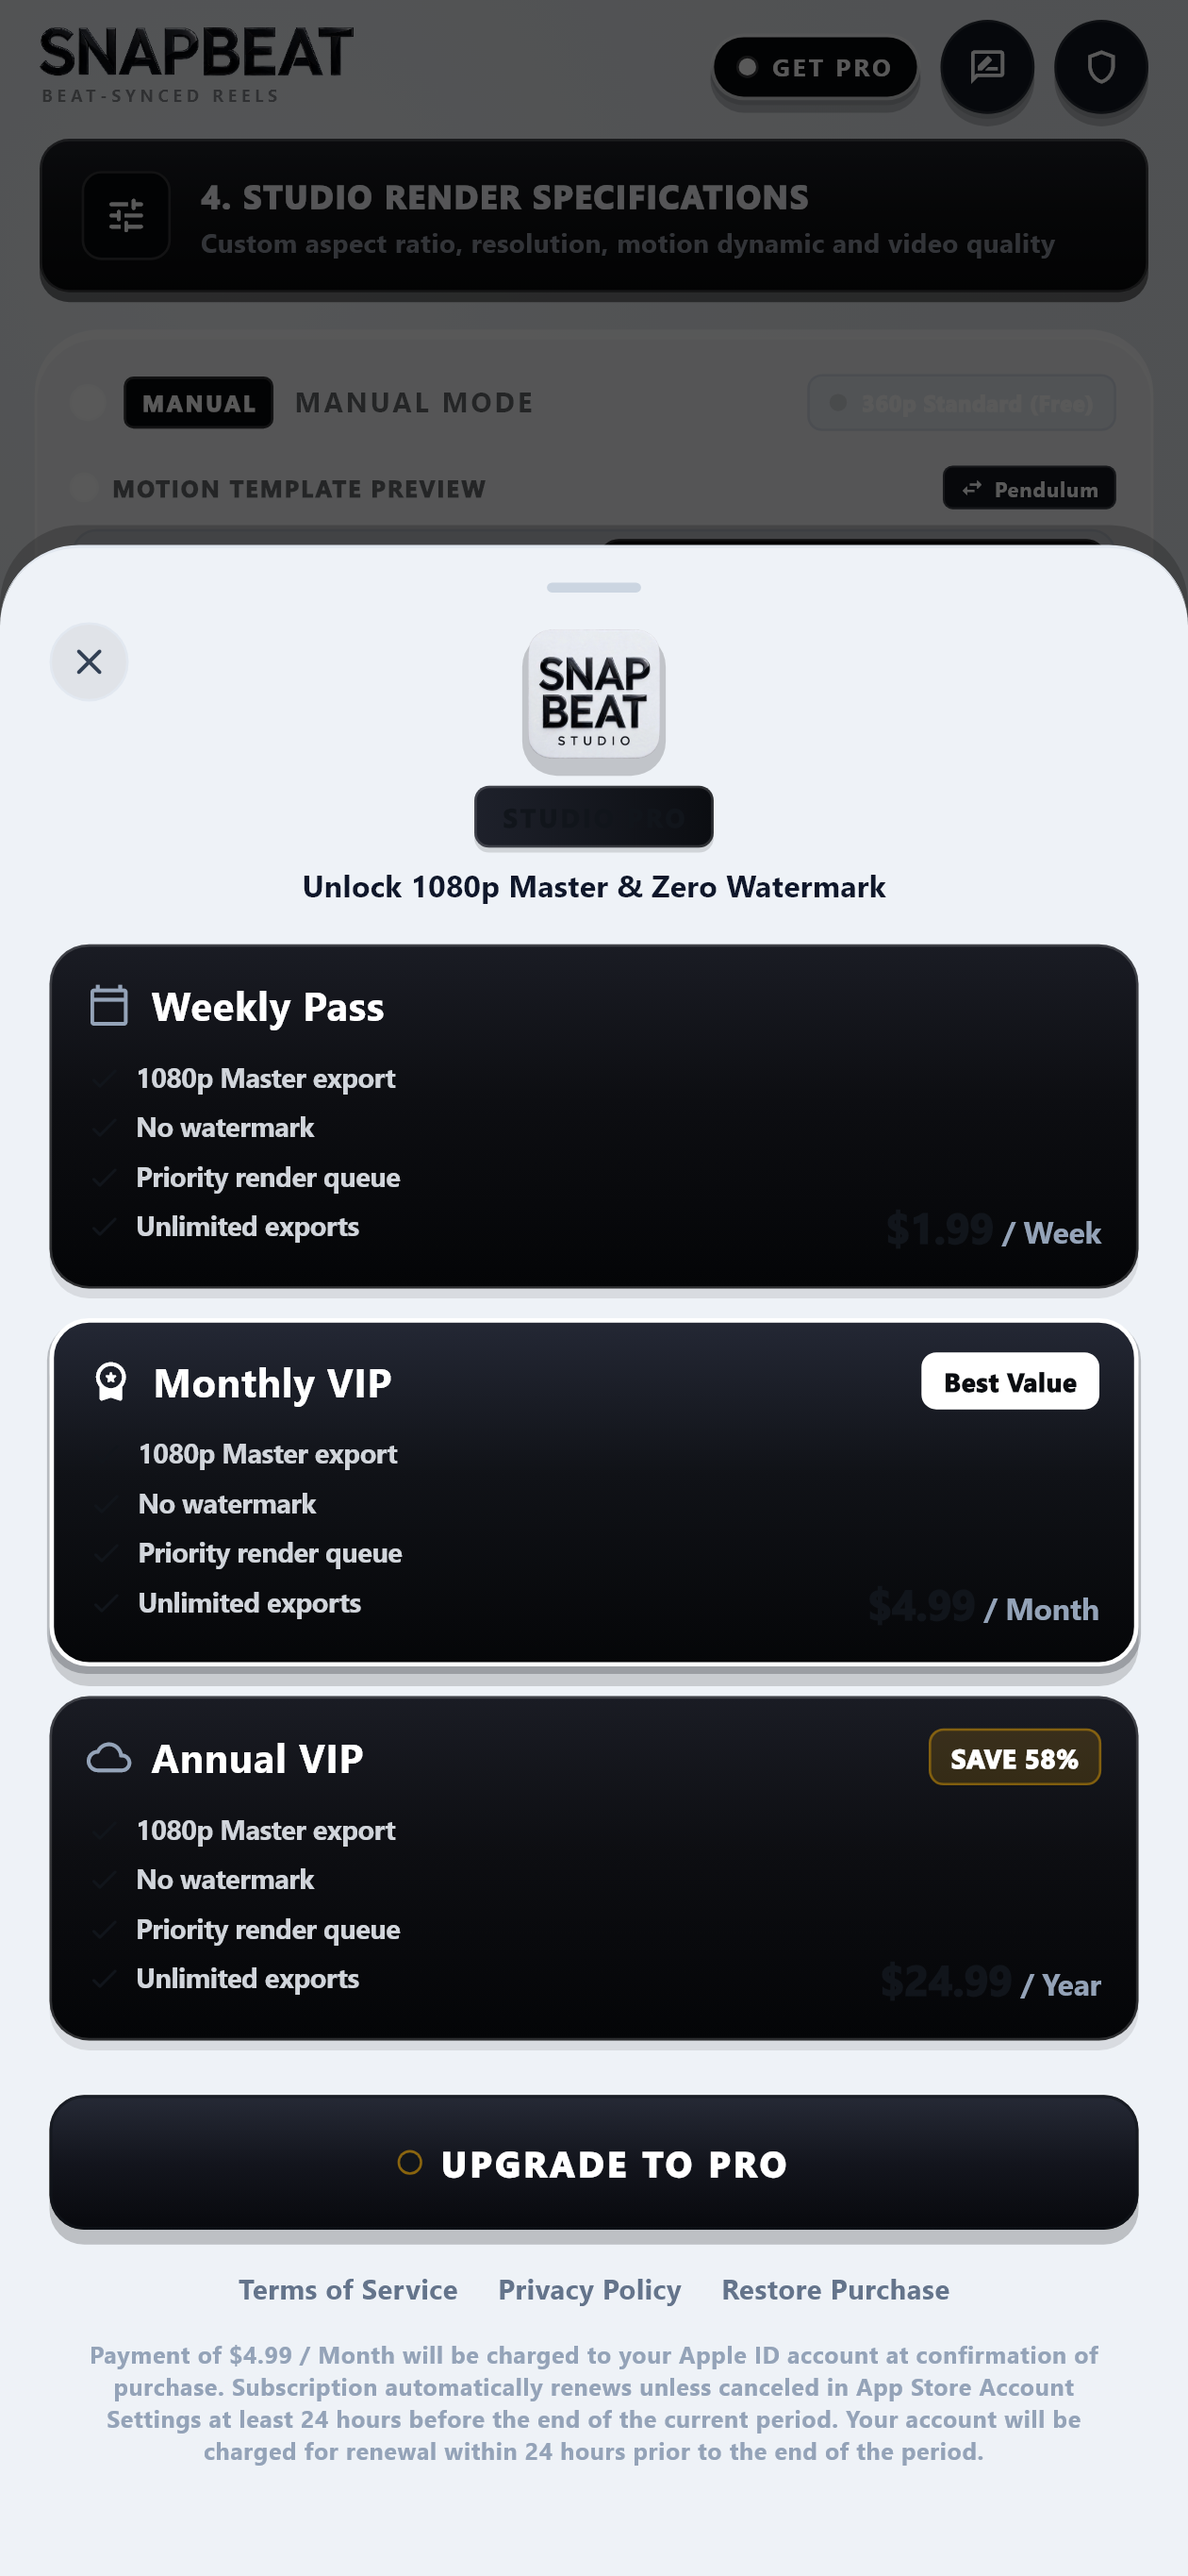
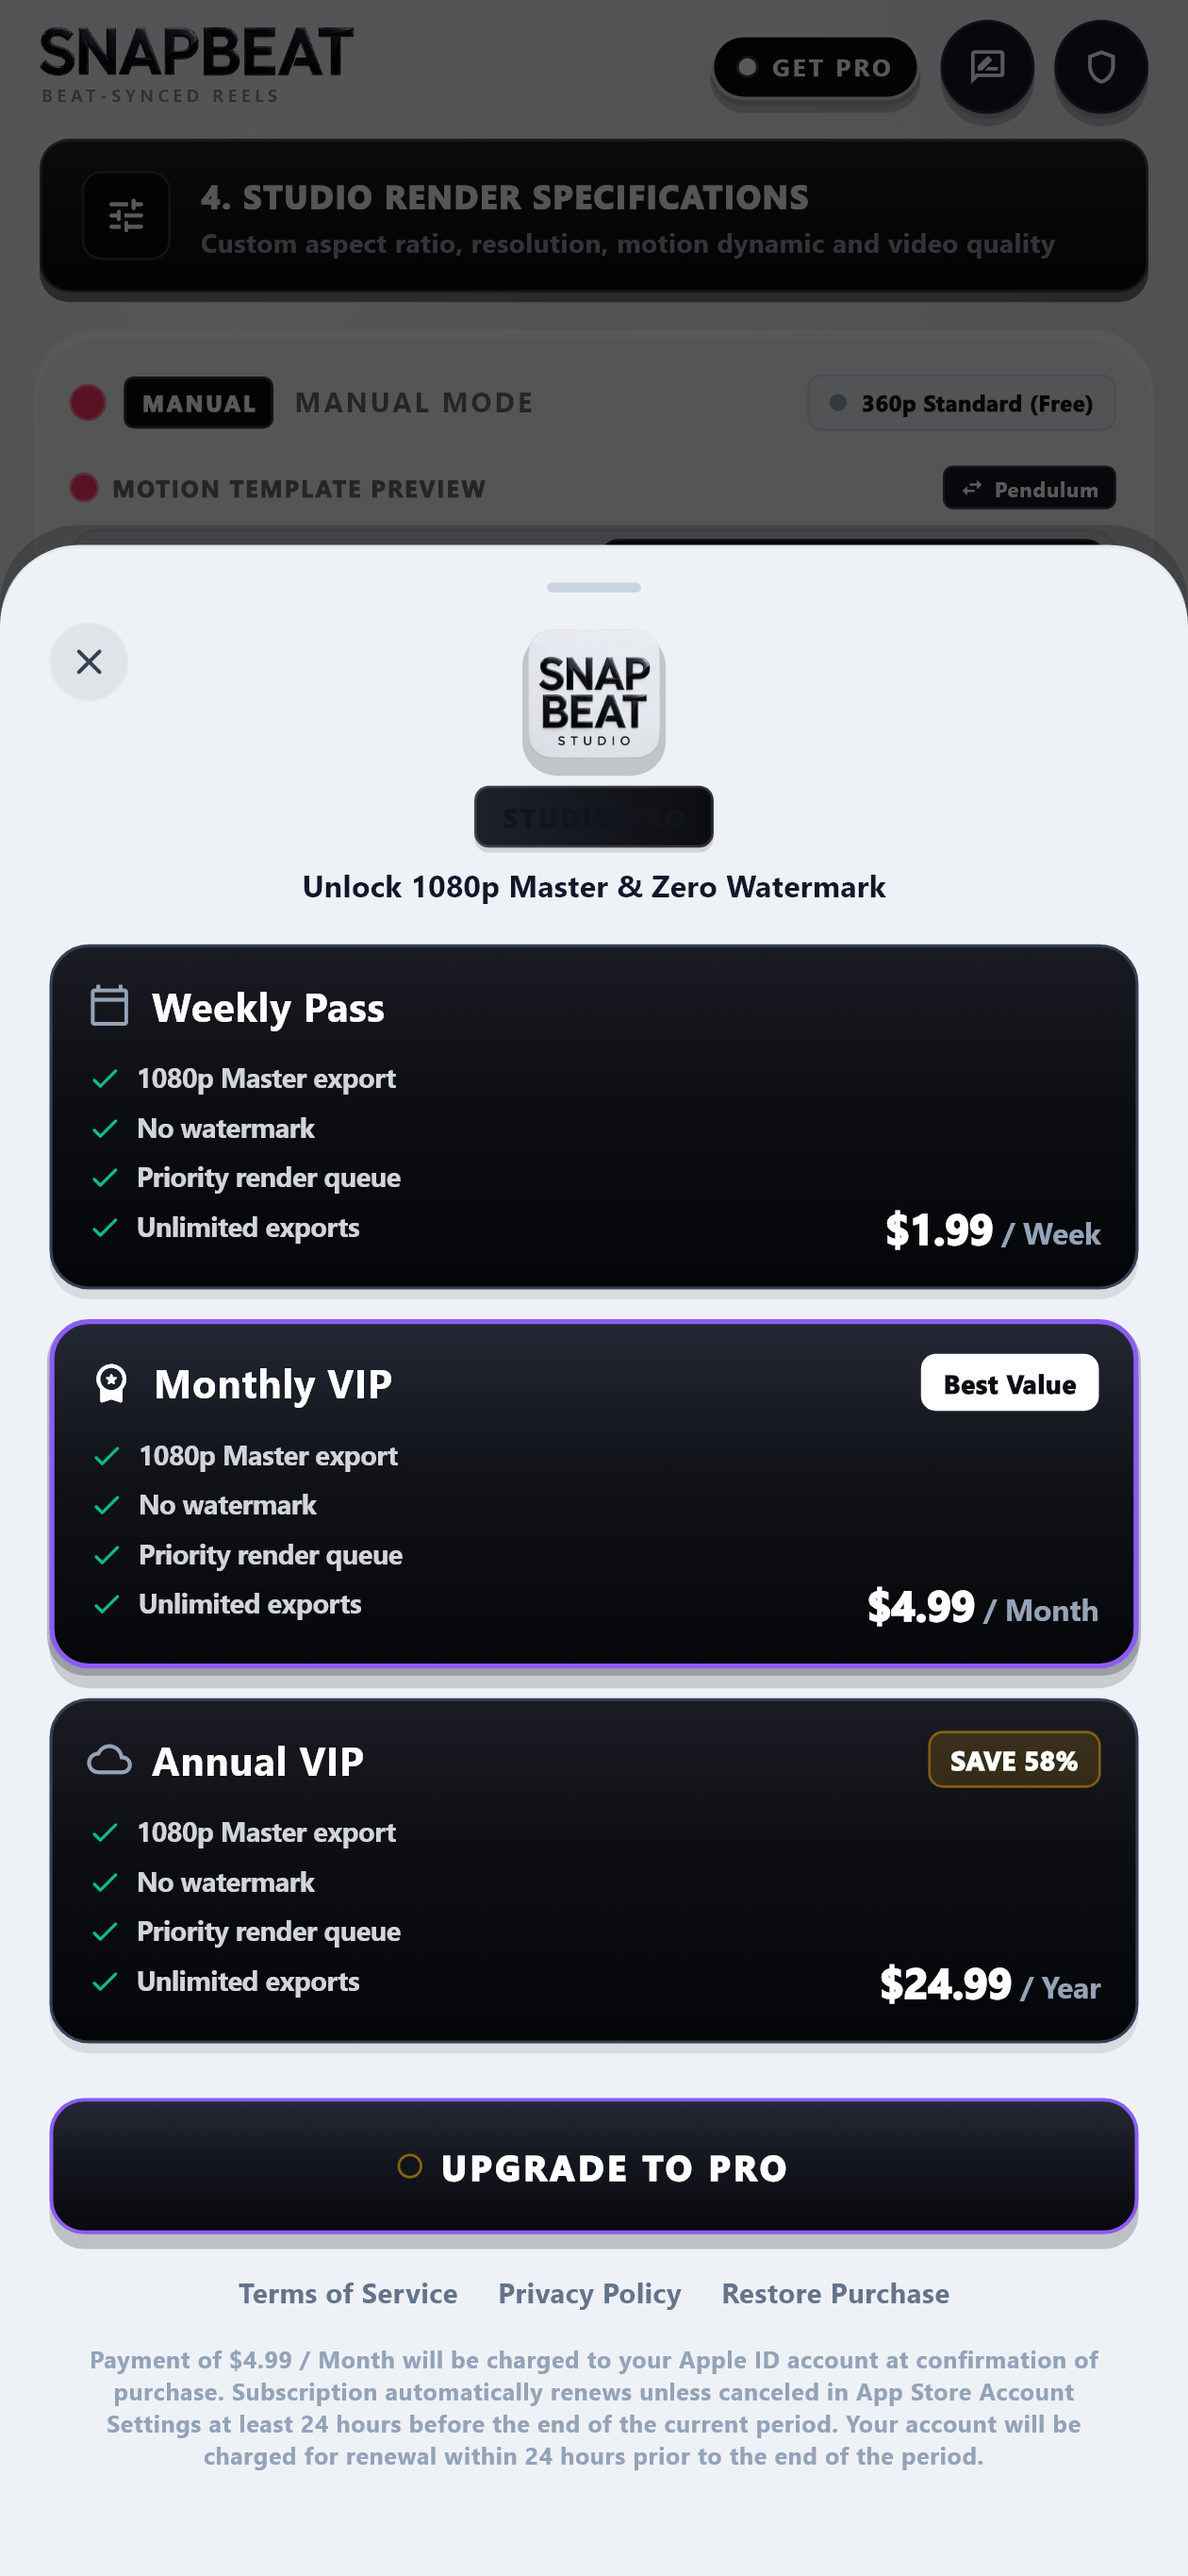
chore(release): bump iOS build to 1.0.7+41 for TestFlight

diff --git a/lib/ui/components/retro_subscription_dialog.dart b/lib/ui/components/retro_subscription_dialog.dart
@@ -325,7 +325,7 @@ class _RetroSubscriptionDialogState extends State<RetroSubscriptionDialog> {
                 ),
                 child: Row(
                   children: [
-                    const Icon(Icons.info_rounded, color: AppColors.primaryDarkText, size: 20),
+                    const Icon(Icons.info_rounded, color: Color(0xFF38BDF8), size: 20),
                     const SizedBox(width: 10),
                     Expanded(
                       child: Text(
@@ -461,8 +461,8 @@ class _RetroSubscriptionDialogState extends State<RetroSubscriptionDialog> {
           ),
           borderRadius: BorderRadius.circular(16),
           border: Border.all(
-            color: isSelected ? const Color(0xFFFFFFFF) : const Color(0x28FFFFFF),
-            width: isSelected ? 1.8 : 1.0,
+            color: isSelected ? const Color(0xFF8B5CF6) : const Color(0xFF334155),
+            width: isSelected ? 2.0 : 1.2,
           ),
           boxShadow: isSelected
               ? [
@@ -552,7 +552,7 @@ class _RetroSubscriptionDialogState extends State<RetroSubscriptionDialog> {
                             children: [
                               const Icon(
                                 Icons.check_rounded,
-                                color: AppColors.primaryDarkText,
+                                color: Color(0xFF10B981),
                                 size: 14,
                               ),
                               const SizedBox(width: 6),
@@ -586,7 +586,7 @@ class _RetroSubscriptionDialogState extends State<RetroSubscriptionDialog> {
                         text: priceAmount,
                         style: const TextStyle(
                           fontFamily: 'Montserrat',
-                          color: AppColors.primaryDarkText,
+                          color: Colors.white,
                           fontSize: 17,
                           fontWeight: FontWeight.w900,
                         ),
@@ -625,7 +625,7 @@ class _RetroSubscriptionDialogState extends State<RetroSubscriptionDialog> {
             colors: [Color(0xFF262A36), Color(0xFF13151D), Color(0xFF08090D)],
           ),
           borderRadius: BorderRadius.circular(14),
-          border: Border.all(color: AppColors.primaryDarkText.withValues(alpha: 0.6), width: 1.2),
+          border: Border.all(color: const Color(0xFF8B5CF6), width: 1.5),
           boxShadow: const [
             BoxShadow(
               color: Color(0x35000000),
@@ -646,7 +646,7 @@ class _RetroSubscriptionDialogState extends State<RetroSubscriptionDialog> {
                   height: 22,
                   child: CircularProgressIndicator(
                     strokeWidth: 2.5,
-                    valueColor: AlwaysStoppedAnimation<Color>(const Color(0xFFFFFFFF)),
+                    valueColor: const AlwaysStoppedAnimation<Color>(Color(0xFFFFFFFF)),
                   ),
                 )
               : Row(

diff --git a/lib/ui/components/pro_controls_card.dart b/lib/ui/components/pro_controls_card.dart
@@ -157,8 +157,8 @@ class ProControlsCard extends StatelessWidget {
                         decoration: BoxDecoration(
                           shape: BoxShape.circle,
                           color: (isPro ?? false)
-                              ? const Color(0xFFFFFFFF)
-                              : Colors.grey.withValues(alpha: 0.3),
+                              ? const Color(0xFF10B981)
+                              : const Color(0xFF94A3B8),
                           boxShadow: (isPro ?? false)
                               ? const [BoxShadow(color: Color(0x30FFFFFF), blurRadius: 4, spreadRadius: 1)]
                               : [],
@@ -172,7 +172,7 @@ class ProControlsCard extends StatelessWidget {
                         style: const TextStyle(
                           fontSize: 9,
                           fontWeight: FontWeight.w900,
-                          color: Color(0xFFFFFFFF),
+                          color: AppColors.primaryDarkText,
                         ),
                       ),
                     ],
@@ -382,10 +382,10 @@ class ProControlsCard extends StatelessWidget {
                   SliderTheme(
                     data: SliderThemeData(
                       trackHeight: 3.5,
-                      activeTrackColor: Colors.white,
+                      activeTrackColor: AppColors.primaryDarkText,
                       inactiveTrackColor: AppColors.chassisBevelDark,
-                      thumbColor: Colors.white,
-                      overlayColor: Colors.white.withValues(alpha: 0.1),
+                      thumbColor: AppColors.primaryDarkText,
+                      overlayColor: AppColors.primaryDarkText.withValues(alpha: 0.1),
                       thumbShape: const RoundSliderThumbShape(enabledThumbRadius: 6.0),
                       overlayShape: const RoundSliderOverlayShape(overlayRadius: 12.0),
                     ),

diff --git a/lib/ui/screens/home_screen.dart b/lib/ui/screens/home_screen.dart
@@ -402,24 +402,24 @@ class HomeScreenState extends State<HomeScreen> {
                 child: Column(
                   children: [
                     _buildWelcomeStepRow(
-                      icon: Icons.photo_library_rounded,
+                      icon: Icons.library_music_rounded,
                       step: 'STEP 1',
-                      title: 'Pick Your Photos',
-                      desc: 'Select photos from your gallery or try with Sample Photos.',
+                      title: 'Pick Soundtrack',
+                      desc: 'Select from built-in beat library or import your own track.',
                     ),
                     const Divider(color: AppColors.chassisBevelDark, height: 16),
                     _buildWelcomeStepRow(
-                      icon: Icons.music_note_rounded,
+                      icon: Icons.photo_library_rounded,
                       step: 'STEP 2',
-                      title: 'Choose Music',
-                      desc: 'Pick your own MP3 or choose from the sound library.',
+                      title: 'Curate Photos',
+                      desc: 'Add 2 or more photos from gallery or try sample photos.',
                     ),
                     const Divider(color: AppColors.chassisBevelDark, height: 16),
                     _buildWelcomeStepRow(
-                      icon: Icons.motion_photos_auto_rounded,
+                      icon: Icons.bolt_rounded,
                       step: 'STEP 3',
-                      title: 'Render Pendulum Reel',
-                      desc: 'Pre-selected for you! Tap Render to sync your photos to the beat.',
+                      title: 'Export Beat Reel',
+                      desc: 'Instant beat-synced 1080p Master render with motion physics.',
                     ),
                   ],
                 ),

diff --git a/lib/ui/components/snaps_reorder_strip.dart b/lib/ui/components/snaps_reorder_strip.dart
@@ -122,7 +122,7 @@ class _SnapsReorderStripState extends State<SnapsReorderStrip> {
                       fontSize: 10.5,
                       fontWeight: FontWeight.w800,
                       letterSpacing: 0.8,
-                      color: isEnabled ? AppColors.textEngraved : const Color(0xFFFFFFFF),
+                      color: isEnabled ? AppColors.textEngraved : AppColors.textMuted,
                     ),
                   ),
                 ],
@@ -414,9 +414,9 @@ class _SnapsReorderStripState extends State<SnapsReorderStrip> {
                                   trackHeight: 2.5,
                                   thumbShape: const RoundSliderThumbShape(enabledThumbRadius: 5.5),
                                   overlayShape: const RoundSliderOverlayShape(overlayRadius: 9),
-                                  activeTrackColor: Colors.white,
+                                  activeTrackColor: AppColors.primaryDarkText,
                                   inactiveTrackColor: AppColors.chassisBevelDark,
-                                  thumbColor: Colors.white,
+                                  thumbColor: AppColors.primaryDarkText,
                                 ),
                                 child: Slider(
                                   value: _thumbnailScale,

diff --git a/lib/theme/app_colors.dart b/lib/theme/app_colors.dart
@@ -55,7 +55,7 @@ class AppColors {
   static const Color snapOrange = Color(0xFFFFB000);
   static const Color snapCyan = Color(0xFFFFB000);
   static const Color snapViolet = Color(0xFFFFB000);
-  static const Color snapPink = Color(0xFFFFB000);
+  static const Color snapPink = Color(0xFFFF3366);
   static const Color snapGreen = Color(0xFFFFB000);
 
   // Section 6 & 8: Calibrated Lighting & Material Shadows
@@ -233,7 +233,7 @@ class AppColors {
   static const Color redGloss              = amberGoldLight;
   static const Color redSocket             = amberGoldDark;
   static const Color redDeepRim            = Color(0xFF1A1202);
-  static const Color pinkAccent            = Color(0xFFFFFFFF);
+  static const Color pinkAccent            = Color(0xFFFF3366);
   static const Color pinkGlow              = Color(0x60FF3366);
 
   static const LinearGradient iridescentGradient = LinearGradient(

diff --git a/lib/main.dart b/lib/main.dart
@@ -1,7 +1,7 @@
 import 'package:flutter/material.dart';
 import 'package:flutter/services.dart';
 import 'theme/app_theme.dart';
-import 'ui/screens/home_screen.dart';
+import 'ui/screens/splash_screen.dart';
 
 void main() {
   WidgetsFlutterBinding.ensureInitialized();
@@ -25,7 +25,7 @@ class SnapBeatApp extends StatelessWidget {
       title: 'SnapBeat Studio',
       debugShowCheckedModeBanner: false,
       theme: AppTheme.retroMetalClassic,
-      home: const HomeScreen(fromShowcase: false),
+      home: const SplashScreen(),
     );
   }
 }

diff --git a/lib/ui/components/snapbeat_pink_dot.dart b/lib/ui/components/snapbeat_pink_dot.dart
@@ -16,12 +16,12 @@ class SnapBeatPinkDot extends StatelessWidget {
       width: size,
       height: size,
       decoration: BoxDecoration(
-        color: Colors.white,
+        color: const Color(0xFFFF3366),
         shape: BoxShape.circle,
         boxShadow: withGlow
             ? [
                 BoxShadow(
-                  color: Colors.white.withValues(alpha: 0.6),
+                  color: const Color(0xFFFF3366).withValues(alpha: 0.6),
                   blurRadius: 6,
                   spreadRadius: 1,
                 ),
